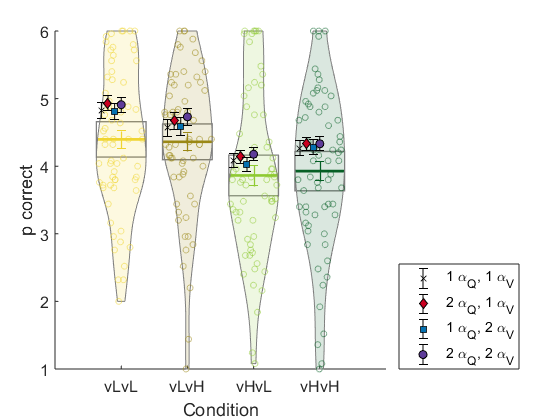
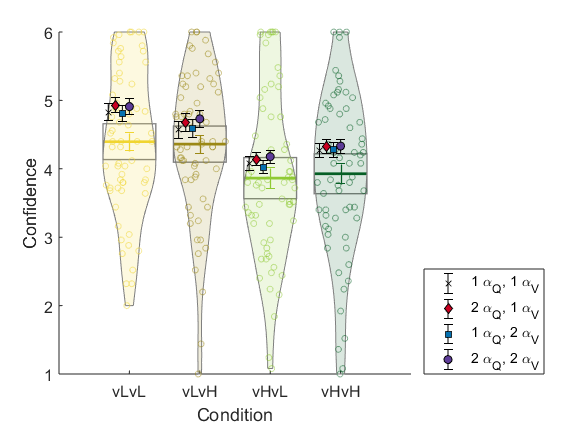
:construction:  small changes to modelling (starting SSAT model)

Changed region(s): [[0.0304, 0.0619, 0.9411, 1.0]]

diff --git a/ModelingFuncs/qLearner.m b/ModelingFuncs/qLearner.m
@@ -7,6 +7,9 @@ classdef    qLearner < handle
         lrv
         lrm2
         lrv2
+        lambda = 1;
+        T
+        drift = false;
         V
         Q
         s = [];
@@ -78,6 +81,10 @@ classdef    qLearner < handle
                 obj.Q(s,a) = obj.Q(s,a) + obj.lrm.*delta;                                     % the delta rule for the factual choice
             end
 
+            %% drift Q unchosen towards T 
+            if isprop(obj,'T') && ~isempty(obj,'T') && obj.drift
+                obj.Q(s,3-a) = obj.Q(s,3-a) + obj.lrm.*(obj.T - obj.Q(s,3-a));                                     % the delta rule for the factual choice
+            end
             %%
             obj.s = [obj.s s];
             obj.r = [obj.r r];
@@ -89,8 +96,16 @@ classdef    qLearner < handle
 
         end
         
+
+        function [action,p] = chooseAction(obj,state) 
+            if isprop(obj,'T') && ~isempty(obj.T) 
+                [action,p] = chooseActionThresholdSigmoid(obj,state);
+            else 
+                [action,p] = chooseActionThompson(obj,state);
+            end
+        end
     
-            function [action,p] = chooseActionThompson(obj, state)
+        function [action,p] = chooseActionThompson(obj, state)
                     %state: number representing state
                     %
                     %Outputs:
@@ -148,6 +163,39 @@ classdef    qLearner < handle
                 p = 1-pc;
             end
         end
+        
+        function [action,p] = chooseActionThresholdSigmoid(obj, state)
+                %state: number representing state
+                %
+                %Outputs:
+                %action: (1 or 2)
+                %p: Probability of having chosen action based on the state
+
+           if state>size(obj.Q,1)
+                obj.Q(state, 1:2) = obj.startQ;
+                obj.V(state,1:2) = obj.startV;
+           end
+           
+           Q2 = obj.Q(state,2);
+           Q1 = obj.Q(state,1);
+           V2 = obj.V(state,2);
+           V1 = obj.V(state,1);
+           
+           SP2 = (1/sqrt(2*pi*V2)).*integral(@(x)(-exp(obj.lambda.*x).*exp(-((x-Q2)/(2.*V2)))),obj.T, Inf)
+           SP1 = (1/sqrt(2*pi*V1))*integral(@(x)(-exp(obj.lambda*x).*exp(-((x-Q1)/2*V1))),obj.T, Inf)
+
+           dQ = SP2 - SP1; % correct vs incorrect
+           
+           pc = 1./(1+exp(-dQ.*obj.beta));
+           action = double(rand<pc) + 1;
+        
+           if action == 2
+                p = pc;
+            else
+                p = 1-pc;
+            end
+        end
+
     end
     methods (Static)
     end

diff --git a/denstiyfunccalcs.m b/denstiyfunccalcs.m
@@ -1,0 +1,28 @@
+
+M = 35;
+V = 10;
+
+M2 = 65;
+V2 = 10;
+
+x = [0:0.1:100]
+lambda = .2
+
+y = exp(-((x-M).^2/(2.*V)))/sqrt(2*pi*sqrt(V));
+
+y2 = -(exp(-.3).*exp(-((x-M).^2./(2.*V))))/sqrt(2*pi*V);
+y22 = -(exp(.3).*exp(-((x-M)./(2.*V))))/sqrt(2*pi*V);
+
+y3 = (exp(lambda).*exp(-((x-M).^2./(2.*V))))/sqrt(2*pi*sqrt(V));
+
+
+
+% integral(@(x)((exp(lambda).*exp(-((x-M).^2./(2.*V))))/sqrt(2*pi*sqrt(V))),50,Inf)
+
+
+integral(@(x)((exp(lambda).*exp(-((x-M).^2./(2.*V))))/sqrt(2*pi*V)),50,Inf)
+integral(@(x)((exp(lambda).*exp(-((x-M).^2./(2.*V))))/sqrt(2*pi*V)),50,Inf)
+
+
+
+integral(@(x)((exp(lambda).*exp(-((x-M2).^2./(2.*V2))))/sqrt(2*pi*V2)),50,Inf)

diff --git a/model_fitQLearner.m b/model_fitQLearner.m
@@ -23,8 +23,13 @@ modelsinfo{4}.lb = [0,0,0,0];
 modelsinfo{4}.ub = [1,1,1,1];
 modelsinfo{4}.x0 = [.5,.5,.5,.5];
 
+modelsinfo{5}.paramnames = {'lrm','lrv','lambda','T'}
+modelsinfo{5}.lb = [0,0,0,0];
+modelsinfo{5}.ub = [1,1,1,100];
+modelsinfo{5}.x0 = [.5,.5,.5,50];
+modelsinfo{5}.drift = true;
 options = optimset('Algorithm', 'interior-point', 'Display', 'iter-detailed', 'MaxIter', 10000); % These increase the number of iterations to ensure the convergence
-for imodel = 1:numel(modelsinfo) 
+for imodel = 5%1:numel(modelsinfo) 
     lb = modelsinfo{imodel}.lb;
     ub = modelsinfo{imodel}.ub;
     x0 = modelsinfo{imodel}.x0;

diff --git a/model_analysis.m b/model_analysis.m
@@ -217,7 +217,7 @@ modelse = squeeze(std(mmodelpccon,[],3))/sqrt(size(mmodelpccon,3));
  %% plot confidence accross conditions
  modelmarkers = {'x','d','s','o'}
 figure()
-pirateplot(mconfcon,repmat(condcolors,4,1),1,6,12,'','Condition','p correct')
+pirateplot(mconfcon,repmat(condcolors,4,1),1,6,12,'','Condition','Confidence')
 xticklabels({'vLvL','vLvH','vHvL','vHvH'})
 hold on
 % plot([0,5],[.5,.5],':k')

diff --git a/ModelingFuncs/GetModelLL_QLearner.m b/ModelingFuncs/GetModelLL_QLearner.m
@@ -16,7 +16,7 @@ lik     = 0;   % loglikelihood
 for i = 1:length(a)
     
     if ~isnan(a(i))
-        [action,p] = l.chooseActionThomson(s(i));
+        [action,p] = l.chooseAction(s(i));
         if action ~=a(i)
             p = 1-p;
         end
